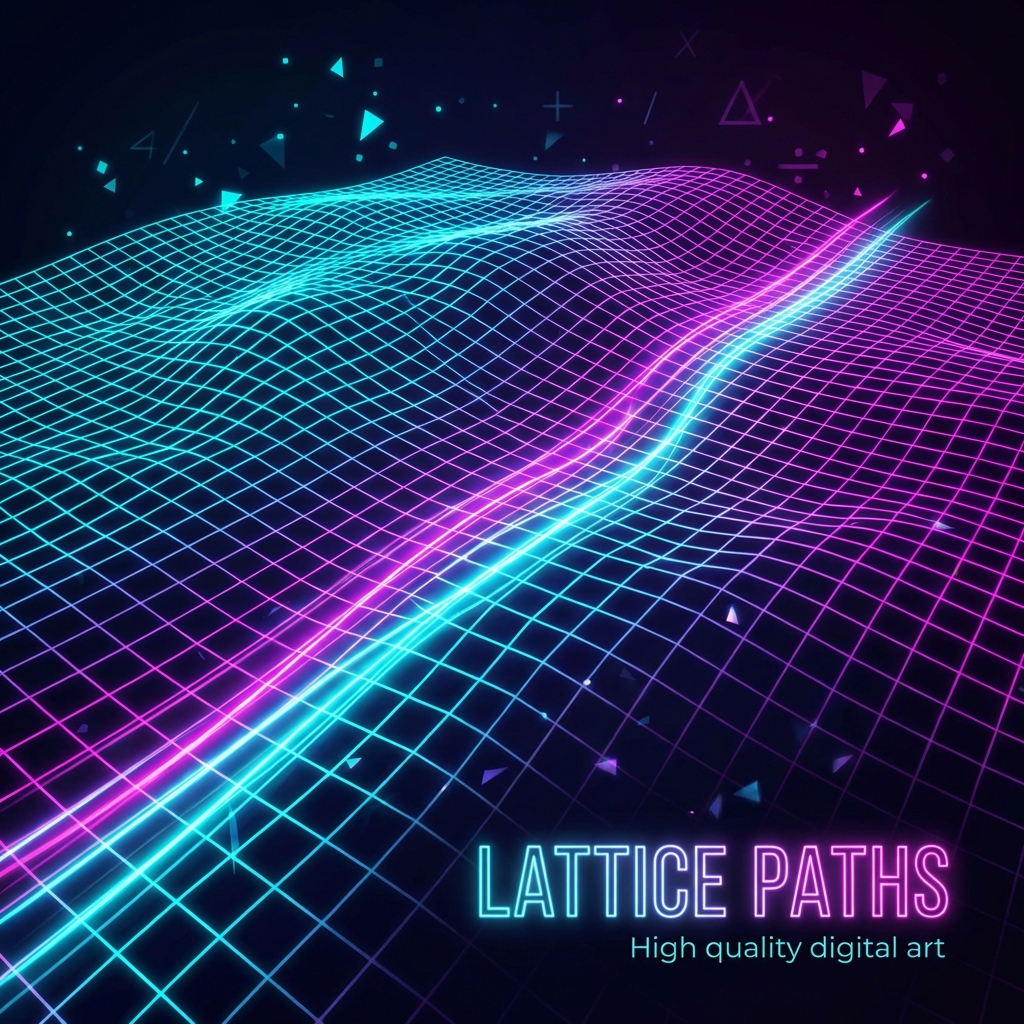
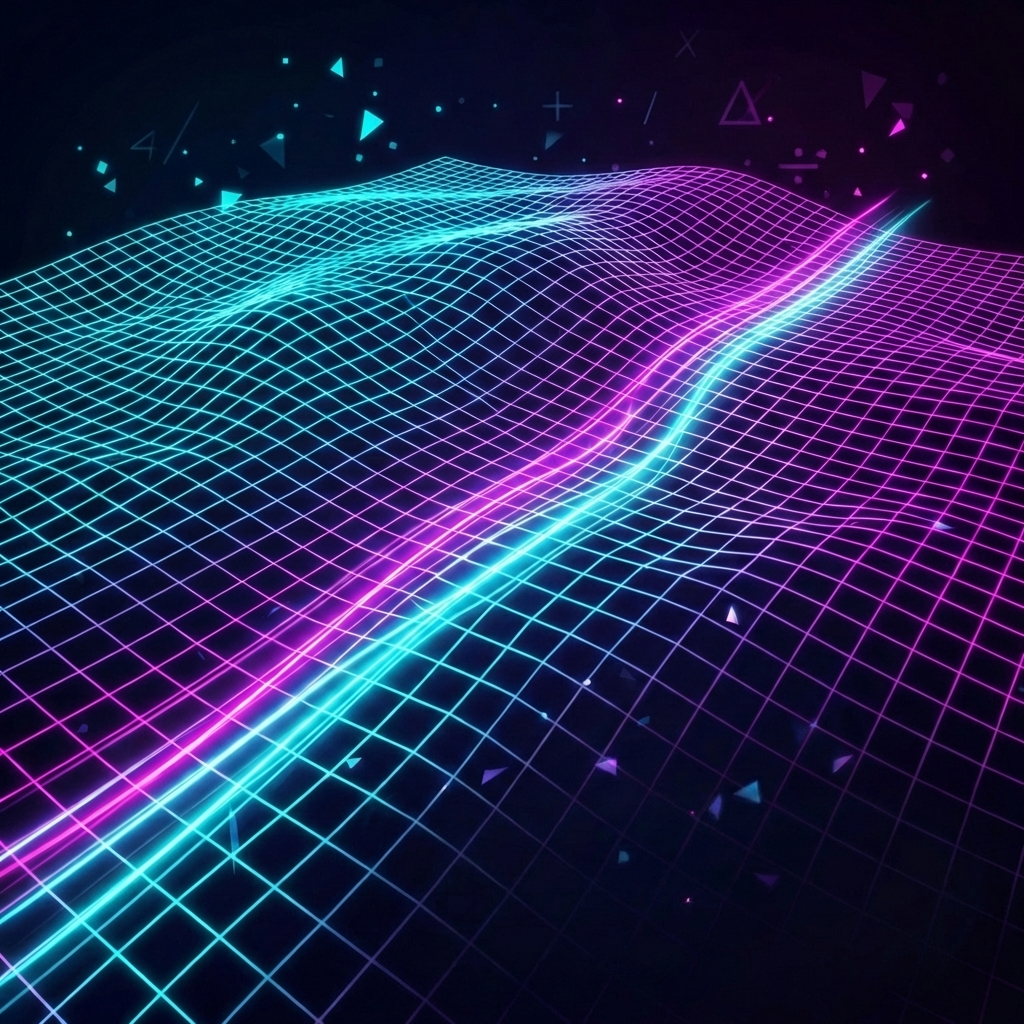
dd

diff --git a/docs/index.html b/docs/index.html
@@ -395,7 +395,7 @@ window.Quarto = {
 
 <div class="quarto-listing quarto-listing-container-default" id="listing-listing">
 <div class="list quarto-listing-default">
-<div class="quarto-post image-right" data-index="0" data-categories="TWF0ZW1hdGlrJTJDS29tYmluYXRvcmlrJTJDQWxnb3JpdG1hbGFy" data-listing-date-sort="1770152400000" data-listing-file-modified-sort="1770281904037" data-listing-date-modified-sort="NaN" data-listing-reading-time-sort="3" data-listing-word-count-sort="423">
+<div class="quarto-post image-right" data-index="0" data-categories="TWF0ZW1hdGlrJTJDS29tYmluYXRvcmlrJTJDQWxnb3JpdG1hbGFy" data-listing-date-sort="1770152400000" data-listing-file-modified-sort="1770282312404" data-listing-date-modified-sort="NaN" data-listing-reading-time-sort="3" data-listing-word-count-sort="423">
 <div class="thumbnail"><a href="./posts/kafes-yollari/index.html" class="no-external">
 
 <img loading="lazy" src="./posts/kafes-yollari/image.jpg" class="thumbnail-image">
